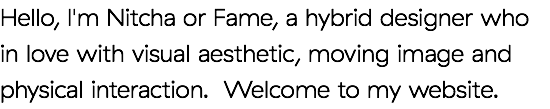
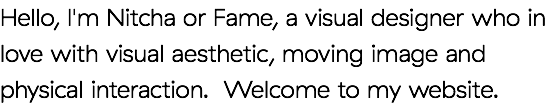
fix main page

Changed region(s): [[0.0, 0.4128, 0.9273, 0.633], [0.5564, 0.0826, 1.0, 0.3028]]

diff --git a/index.html b/index.html
@@ -161,7 +161,7 @@ transition:300ms;
      <a class="nonblock nontext clip_frame grpelem" id="u7873" href="https://github.com/Nitchafame" data-muse-uid="U7873" data-muse-type="img_frame"><!-- image --><img class="block" id="u7873_img" src="images/new7git.png" alt="" width="17" height="17" data-muse-src="images/new7git.png"/></a>
      <!-- /m_editable -->
     </div>
-    <img class="colelem" id="u15353-4" alt="Hello, I'm Nitcha or Fame, a hybrid designer who in love with visual aesthetic, moving image and physical interaction. Welcome to my website. " width="550" height="108" src="images/u15353-4.png"/><!-- rasterized frame -->
+    <img class="colelem" id="u15353-4" alt="Hello, I'm Nitcha or Fame, a visual designer who in love with visual aesthetic, moving image and physical interaction. Welcome to my website. " width="550" height="108" src="images/u15353-4.png"/><!-- rasterized frame -->
     <div class="clearfix colelem" id="u15348"><!-- group -->
      <!-- m_editable region-id="editable-static-tag-U15350-BP_infinity" template="index.html" data-type="html" data-ice-options="disableImageResize,link" -->
      <div class="clearfix grpelem" id="u15350-11" data-muse-uid="U15350" data-muse-type="txt_frame"><!-- content -->
@@ -187,7 +187,7 @@ transition:300ms;
      <div class="pointer_cursor museBGSize clearfix grpelem" id="u8424" data-muse-uid="U8424"><!-- group -->
       <a class="block" href="betweenspaces.html" data-href="page:U19544"></a>
       <!-- m_editable region-id="editable-static-tag-U12744-BP_infinity" template="index.html" data-type="html" data-ice-options="disableImageResize,link,clickable" data-ice-editable="link" -->
-      <a class="nonblock nontext rgba-background clearfix grpelem" id="u12744-6" href="betweenspaces.html" data-href="page:U19544" data-muse-uid="U12744" data-muse-type="txt_frame"><!-- content --><p id="u12744-2">Melody</p><p id="u12744-4">3D Interactive</p></a>
+      <a class="nonblock nontext rgba-background clearfix grpelem" id="u12744-6" href="melody.html" data-href="page:U8168" data-muse-uid="U12744" data-muse-type="txt_frame"><!-- content --><p id="u12744-2">Melody</p><p id="u12744-4">3D Interactive</p></a>
       <!-- /m_editable -->
      </div>
      <!-- /m_editable -->
@@ -198,21 +198,21 @@ transition:300ms;
      <div class="pointer_cursor museBGSize clearfix grpelem" id="u8228" data-muse-uid="U8228"><!-- group -->
       <a class="block" href="betweenspaces.html" data-href="page:U19544"></a>
       <!-- m_editable region-id="editable-static-tag-U8227-BP_infinity" template="index.html" data-type="html" data-ice-options="disableImageResize,link,clickable" data-ice-editable="link" -->
-      <a class="nonblock nontext rgba-background clearfix grpelem" id="u8227-6" href="betweenspaces.html" data-href="page:U19544" data-muse-uid="U8227" data-muse-type="txt_frame"><!-- content --><p id="u8227-2">Disturbing Muses</p><p id="u8227-4">3D Interactive</p></a>
+      <a class="nonblock nontext rgba-background clearfix grpelem" id="u8227-6" href="disturbingmuses.html" data-href="page:U8252" data-muse-uid="U8227" data-muse-type="txt_frame"><!-- content --><p id="u8227-2">Disturbing Muses</p><p id="u8227-4">3D Interactive</p></a>
       <!-- /m_editable -->
      </div>
      <!-- /m_editable -->
      <!-- m_editable region-id="editable-static-tag-U11575-BP_infinity" template="index.html" data-type="html" data-ice-options="disableImageResize,link,clickable" data-ice-editable="link" -->
-     <a class="nonblock nontext rgba-background clearfix grpelem" id="u11575-6" href="betweenspaces.html" data-href="page:U19544" data-muse-uid="U11575" data-muse-type="txt_frame"><!-- content --><p id="u11575-2">Save Cursive</p><p id="u11575-4">Physical Computing, Arduino</p></a>
+     <a class="nonblock nontext rgba-background clearfix grpelem" id="u11575-6" href="save-cursive.html" data-href="page:U11357" data-muse-uid="U11575" data-muse-type="txt_frame"><!-- content --><p id="u11575-2">Save Cursive</p><p id="u11575-4">Physical Computing, Arduino</p></a>
      <!-- /m_editable -->
      <!-- m_editable region-id="editable-static-tag-U7971-BP_infinity" template="index.html" data-type="html" data-ice-options="disableImageResize,link,clickable" data-ice-editable="link" -->
-     <a class="nonblock nontext rgba-background clearfix grpelem" id="u7971-20" href="betweenspaces.html" data-href="page:U19544" data-muse-uid="U7971" data-muse-type="txt_frame"><!-- content --><p id="u7971-2">Lucid</p><p id="u7971-16">In<span id="u7971-4">s</span>tal<span id="u7971-6">l</span>ation, <span id="u7971-8">C</span>el ani<span id="u7971-10">m</span>a<span id="u7971-12">t</span>i<span id="u7971-14">o</span>n</p><p id="u7971-17">&nbsp;</p><p id="u7971-18">&nbsp;</p></a>
+     <a class="nonblock nontext rgba-background clearfix grpelem" id="u7971-20" href="lucid.html" data-href="page:U7977" data-muse-uid="U7971" data-muse-type="txt_frame"><!-- content --><p id="u7971-2">Lucid</p><p id="u7971-16">In<span id="u7971-4">s</span>tal<span id="u7971-6">l</span>ation, <span id="u7971-8">C</span>el ani<span id="u7971-10">m</span>a<span id="u7971-12">t</span>i<span id="u7971-14">o</span>n</p><p id="u7971-17">&nbsp;</p><p id="u7971-18">&nbsp;</p></a>
      <!-- /m_editable -->
      <!-- m_editable region-id="editable-static-tag-U7569" template="index.html" data-type="html" data-ice-options="clickable" data-ice-editable="link" -->
      <div class="pointer_cursor museBGSize clearfix grpelem" id="u7569" data-muse-uid="U7569"><!-- group -->
       <a class="block" href="betweenspaces.html" data-href="page:U19544"></a>
       <!-- m_editable region-id="editable-static-tag-U7578-BP_infinity" template="index.html" data-type="html" data-ice-options="disableImageResize,link,clickable" data-ice-editable="link" -->
-      <a class="nonblock nontext rgba-background clearfix grpelem" id="u7578-9" href="betweenspaces.html" data-href="page:U19544" data-muse-uid="U7578" data-muse-type="txt_frame"><!-- content --><p id="u7578-2">Revoke : Singular</p><p id="u7578-4">Animation, Music Video</p><p id="u7578-5">&nbsp;</p><p id="u7578-6">&nbsp;</p><p id="u7578-7">&nbsp;</p></a>
+      <a class="nonblock nontext rgba-background clearfix grpelem" id="u7578-9" href="revoke.html" data-href="page:U558" data-muse-uid="U7578" data-muse-type="txt_frame"><!-- content --><p id="u7578-2">Revoke : Singular</p><p id="u7578-4">Animation, Music Video</p><p id="u7578-5">&nbsp;</p><p id="u7578-6">&nbsp;</p><p id="u7578-7">&nbsp;</p></a>
       <!-- /m_editable -->
      </div>
      <!-- /m_editable -->
@@ -220,12 +220,12 @@ transition:300ms;
      <div class="pointer_cursor museBGSize clearfix grpelem" id="u11420" data-muse-uid="U11420"><!-- group -->
       <a class="block" href="betweenspaces.html" data-href="page:U19544"></a>
       <!-- m_editable region-id="editable-static-tag-U11419-BP_infinity" template="index.html" data-type="html" data-ice-options="disableImageResize,link,clickable" data-ice-editable="link" -->
-      <a class="nonblock nontext rgba-background clearfix grpelem" id="u11419-11" href="betweenspaces.html" data-href="page:U19544" data-muse-uid="U11419" data-muse-type="txt_frame"><!-- content --><p id="u11419-2">Balancing Sound</p><p id="u11419-8">Sound In<span id="u11419-4">s</span>tal<span id="u11419-6">l</span>ation</p><p id="u11419-9">&nbsp;</p></a>
+      <a class="nonblock nontext rgba-background clearfix grpelem" id="u11419-11" href="balancingsound.html" data-href="page:U11345" data-muse-uid="U11419" data-muse-type="txt_frame"><!-- content --><p id="u11419-2">Balancing Sound</p><p id="u11419-8">Sound In<span id="u11419-4">s</span>tal<span id="u11419-6">l</span>ation</p><p id="u11419-9">&nbsp;</p></a>
       <!-- /m_editable -->
      </div>
      <!-- /m_editable -->
      <!-- m_editable region-id="editable-static-tag-U13162-BP_infinity" template="index.html" data-type="image" data-ice-options="clickable" data-ice-editable="link" -->
-     <a class="nonblock nontext clip_frame grpelem" id="u13162" href="betweenspaces.html" data-href="page:U19544" data-muse-uid="U13162" data-muse-type="img_frame"><!-- image --><img class="block" id="u13162_img" src="images/reel_button_web_new2015.png" alt="" width="960" height="288" data-muse-src="images/reel_button_web_new2015.png"/></a>
+     <a class="nonblock nontext clip_frame grpelem" id="u13162" href="reel.html#reel2015" data-href="anchor:U2766:U20695" data-muse-uid="U13162" data-muse-type="img_frame"><!-- image --><img class="block" id="u13162_img" src="images/reel_button_web_new2015.png" alt="" width="960" height="288" data-muse-src="images/reel_button_web_new2015.png"/></a>
      <!-- /m_editable -->
      <!-- m_editable region-id="editable-static-tag-U13235" template="index.html" data-type="html" data-ice-options="clickable" data-ice-editable="link" -->
      <a class="nonblock nontext museBGSize grpelem" id="u13235" href="betweenspaces.html" data-href="page:U19544" data-muse-uid="U13235"><!-- simple frame --></a>
@@ -234,22 +234,22 @@ transition:300ms;
      <a class="nonblock nontext museBGSize grpelem" id="u14375" href="betweenspaces.html" data-href="page:U19544" data-muse-uid="U14375"><!-- simple frame --></a>
      <!-- /m_editable -->
      <!-- m_editable region-id="editable-static-tag-U13236-BP_infinity" template="index.html" data-type="html" data-ice-options="disableImageResize,link,clickable" data-ice-editable="link" -->
-     <a class="nonblock nontext rgba-background clearfix grpelem" id="u13236-7" href="betweenspaces.html" data-href="page:U19544" data-muse-uid="U13236" data-muse-type="txt_frame"><!-- content --><p id="u13236-2">Lick it!</p><p id="u13236-4">Experimental Arcade Game, Physical Game</p><p id="u13236-5">&nbsp;</p></a>
+     <a class="nonblock nontext rgba-background clearfix grpelem" id="u13236-7" href="lick-it.html" data-href="page:U13269" data-muse-uid="U13236" data-muse-type="txt_frame"><!-- content --><p id="u13236-2">Lick it!</p><p id="u13236-4">Experimental Arcade Game, Physical Game</p><p id="u13236-5">&nbsp;</p></a>
      <!-- /m_editable -->
      <!-- m_editable region-id="editable-static-tag-U14372-BP_infinity" template="index.html" data-type="html" data-ice-options="disableImageResize,link,clickable" data-ice-editable="link" -->
-     <a class="nonblock nontext rgba-background clearfix grpelem" id="u14372-9" href="betweenspaces.html" data-href="page:U19544" data-muse-uid="U14372" data-muse-type="txt_frame"><!-- content --><p id="u14372">&nbsp;</p><p id="u14372-2">&nbsp;</p><p id="u14372-4">Jellyfish Game</p><p id="u14372-6">Mini Game with Physical Controller, P5</p><p id="u14372-7">&nbsp;</p></a>
+     <a class="nonblock nontext rgba-background clearfix grpelem" id="u14372-9" href="jellyfish-game.html" data-href="page:U14690" data-muse-uid="U14372" data-muse-type="txt_frame"><!-- content --><p id="u14372">&nbsp;</p><p id="u14372-2">&nbsp;</p><p id="u14372-4">Jellyfish Game</p><p id="u14372-6">Mini Game with Physical Controller, P5</p><p id="u14372-7">&nbsp;</p></a>
      <!-- /m_editable -->
      <!-- m_editable region-id="editable-static-tag-U14374-BP_infinity" template="index.html" data-type="html" data-ice-options="disableImageResize,link,clickable" data-ice-editable="link" -->
-     <a class="nonblock nontext rgba-background clearfix grpelem" id="u14374-7" href="betweenspaces.html" data-href="page:U19544" data-muse-uid="U14374" data-muse-type="txt_frame"><!-- content --><p id="u14374-2">Dilation</p><p id="u14374-4">Paper Sculpture, Projection Mapping, GLSL shaders</p><p id="u14374-5">&nbsp;</p></a>
+     <a class="nonblock nontext rgba-background clearfix grpelem" id="u14374-7" href="dilation.html" data-href="page:U13769" data-muse-uid="U14374" data-muse-type="txt_frame"><!-- content --><p id="u14374-2">Dilation</p><p id="u14374-4">Paper Sculpture, Projection Mapping, GLSL shaders</p><p id="u14374-5">&nbsp;</p></a>
      <!-- /m_editable -->
      <!-- m_editable region-id="editable-static-tag-U14388-BP_infinity" template="index.html" data-type="image" data-ice-options="clickable" data-ice-editable="link" -->
      <a class="nonblock nontext clip_frame clearfix grpelem" id="u14388" href="betweenspaces.html" data-href="page:U19544" data-muse-uid="U14388" data-muse-type="img_frame"><!-- image --><img class="position_content" id="u14388_img" src="images/set1.gif" alt="" width="725" height="408" data-muse-src="images/set1.gif"/></a>
      <!-- /m_editable -->
      <!-- m_editable region-id="editable-static-tag-U13629-BP_infinity" template="index.html" data-type="html" data-ice-options="disableImageResize,link,clickable" data-ice-editable="link" -->
-     <a class="nonblock nontext rgba-background clearfix grpelem" id="u13629-7" href="betweenspaces.html" data-href="page:U19544" data-muse-uid="U13629" data-muse-type="txt_frame"><!-- content --><p id="u13629-2">Repetition in GLSL</p><p id="u13629-4">Visual Design, GLSL shaders</p><p id="u13629-5">&nbsp;</p></a>
+     <a class="nonblock nontext rgba-background clearfix grpelem" id="u13629-7" href="repitation-in-glsl.html" data-href="page:U14563" data-muse-uid="U13629" data-muse-type="txt_frame"><!-- content --><p id="u13629-2">Repetition in GLSL</p><p id="u13629-4">Visual Design, GLSL shaders</p><p id="u13629-5">&nbsp;</p></a>
      <!-- /m_editable -->
      <!-- m_editable region-id="editable-static-tag-U11677-BP_infinity" template="index.html" data-type="html" data-ice-options="disableImageResize,link,clickable" data-ice-editable="link" -->
-     <a class="nonblock nontext rgba-background clearfix grpelem" id="u11677-15" href="betweenspaces.html" data-href="page:U19544" data-muse-uid="U11677" data-muse-type="txt_frame"><!-- content --><p id="u11677">&nbsp;</p><p id="u11677-2">&nbsp;</p><p id="u11677-3">&nbsp;</p><p id="u11677-4">&nbsp;</p><p id="u11677-6">Atta-matic:</p><p id="u11677-8">mind the body</p><p id="u11677-10">Wearable Technology, Physical Computing,</p><p id="u11677-12">Research</p><p id="u11677-13">&nbsp;</p></a>
+     <a class="nonblock nontext rgba-background clearfix grpelem" id="u11677-15" href="attamatic.html" data-href="page:U15059" data-muse-uid="U11677" data-muse-type="txt_frame"><!-- content --><p id="u11677">&nbsp;</p><p id="u11677-2">&nbsp;</p><p id="u11677-3">&nbsp;</p><p id="u11677-4">&nbsp;</p><p id="u11677-6">Atta-matic:</p><p id="u11677-8">mind the body</p><p id="u11677-10">Wearable Technology, Physical Computing,</p><p id="u11677-12">Research</p><p id="u11677-13">&nbsp;</p></a>
      <!-- /m_editable -->
      <!-- m_editable region-id="editable-static-tag-U22721-BP_infinity" template="index.html" data-type="html" data-ice-options="disableImageResize,link,clickable" data-ice-editable="link" -->
      <a class="nonblock nontext rgba-background clearfix grpelem" id="u22721-6" href="betweenspaces.html" data-href="page:U19544" data-muse-uid="U22721" data-muse-type="txt_frame"><!-- content --><p id="u22721-2">Between Spaces</p><p id="u22721-4">Art direction, Exhibition Identity, Graphic Design</p></a>
@@ -273,19 +273,19 @@ transition:300ms;
      <a class="nonblock nontext rgba-background clearfix grpelem" id="u7602-3" href="betweenspaces.html" data-href="page:U19544" data-muse-uid="U7602" data-muse-type="txt_frame"><!-- content --><p>&nbsp;</p></a>
      <!-- /m_editable -->
      <!-- m_editable region-id="editable-static-tag-U7601" template="index.html" data-type="html" data-ice-options="clickable" data-ice-editable="link" -->
-     <a class="nonblock nontext museBGSize grpelem" id="u7601" href="betweenspaces.html" data-href="page:U19544" data-muse-uid="U7601"><!-- simple frame --></a>
+     <a class="nonblock nontext museBGSize grpelem" id="u7601" href="reel.html#reel2013" data-href="anchor:U2766:U13168" data-muse-uid="U7601"><!-- simple frame --></a>
      <!-- /m_editable -->
      <!-- m_editable region-id="editable-static-tag-U7552-BP_infinity" template="index.html" data-type="image" data-ice-options="clickable" data-ice-editable="link" -->
      <a class="nonblock nontext clip_frame grpelem" id="u7552" href="betweenspaces.html" data-href="page:U19544" data-muse-uid="U7552" data-muse-type="img_frame"><!-- image --><img class="block" id="u7552_img" src="images/thumb_medleyscrubb.gif" alt="" width="320" height="180" data-muse-src="images/thumb_medleyscrubb.gif"/></a>
      <!-- /m_editable -->
      <!-- m_editable region-id="editable-static-tag-U7554-BP_infinity" template="index.html" data-type="html" data-ice-options="disableImageResize,link,clickable" data-ice-editable="link" -->
-     <a class="nonblock nontext rgba-background clearfix grpelem" id="u7554-6" href="betweenspaces.html" data-href="page:U19544" data-muse-uid="U7554" data-muse-type="txt_frame"><!-- content --><p id="u7554-2">Medley : Scrubb</p><p id="u7554-4">Animation, Visual graphic</p></a>
+     <a class="nonblock nontext rgba-background clearfix grpelem" id="u7554-6" href="scrubbmedley.html" data-href="page:U1820" data-muse-uid="U7554" data-muse-type="txt_frame"><!-- content --><p id="u7554-2">Medley : Scrubb</p><p id="u7554-4">Animation, Visual graphic</p></a>
      <!-- /m_editable -->
      <!-- m_editable region-id="editable-static-tag-U7584" template="index.html" data-type="html" data-ice-options="clickable" data-ice-editable="link" -->
      <div class="pointer_cursor museBGSize clearfix grpelem" id="u7584" data-muse-uid="U7584"><!-- group -->
       <a class="block" href="betweenspaces.html" data-href="page:U19544"></a>
       <!-- m_editable region-id="editable-static-tag-U8195-BP_infinity" template="index.html" data-type="html" data-ice-options="disableImageResize,link,clickable" data-ice-editable="link" -->
-      <a class="nonblock nontext rgba-background clearfix grpelem" id="u8195-7" href="betweenspaces.html" data-href="page:U19544" data-muse-uid="U8195" data-muse-type="txt_frame"><!-- content --><p id="u8195-2">Sudkedtedsakran</p><p id="u8195-4">Graphic design, Logo</p><p id="u8195-5">&nbsp;</p></a>
+      <a class="nonblock nontext rgba-background clearfix grpelem" id="u8195-7" href="sudked.html" data-href="page:U4140" data-muse-uid="U8195" data-muse-type="txt_frame"><!-- content --><p id="u8195-2">Sudkedtedsakran</p><p id="u8195-4">Graphic design, Logo</p><p id="u8195-5">&nbsp;</p></a>
       <!-- /m_editable -->
      </div>
      <!-- /m_editable -->
@@ -293,7 +293,7 @@ transition:300ms;
      <div class="pointer_cursor museBGSize clearfix grpelem" id="u7559" data-muse-uid="U7559"><!-- group -->
       <a class="block" href="betweenspaces.html" data-href="page:U19544"></a>
       <!-- m_editable region-id="editable-static-tag-U8193-BP_infinity" template="index.html" data-type="html" data-ice-options="disableImageResize,link,clickable" data-ice-editable="link" -->
-      <a class="nonblock nontext rgba-background clearfix grpelem" id="u8193-8" href="betweenspaces.html" data-href="page:U19544" data-muse-uid="U8193" data-muse-type="txt_frame"><!-- content --><p id="u8193-2">Uprising : Musketeers</p><p id="u8193-4">Graphic design, Art direction</p><p id="u8193-5">&nbsp;</p><p id="u8193-6">&nbsp;</p></a>
+      <a class="nonblock nontext rgba-background clearfix grpelem" id="u8193-8" href="musketeers.html" data-href="page:U1578" data-muse-uid="U8193" data-muse-type="txt_frame"><!-- content --><p id="u8193-2">Uprising : Musketeers</p><p id="u8193-4">Graphic design, Art direction</p><p id="u8193-5">&nbsp;</p><p id="u8193-6">&nbsp;</p></a>
       <!-- /m_editable -->
      </div>
      <!-- /m_editable -->
@@ -301,7 +301,7 @@ transition:300ms;
      <div class="pointer_cursor museBGSize clearfix grpelem" id="u7572" data-muse-uid="U7572"><!-- group -->
       <a class="block" href="betweenspaces.html" data-href="page:U19544"></a>
       <!-- m_editable region-id="editable-static-tag-U7580-BP_infinity" template="index.html" data-type="html" data-ice-options="disableImageResize,link,clickable" data-ice-editable="link" -->
-      <a class="nonblock nontext rgba-background clearfix grpelem" id="u7580-6" href="betweenspaces.html" data-href="page:U19544" data-muse-uid="U7580" data-muse-type="txt_frame"><!-- content --><p id="u7580-2">Rainbow : Lonely Lego</p><p id="u7580-4">Animation</p></a>
+      <a class="nonblock nontext rgba-background clearfix grpelem" id="u7580-6" href="lonelylego.html" data-href="page:U2196" data-muse-uid="U7580" data-muse-type="txt_frame"><!-- content --><p id="u7580-2">Rainbow : Lonely Lego</p><p id="u7580-4">Animation</p></a>
       <!-- /m_editable -->
      </div>
      <!-- /m_editable -->
@@ -321,25 +321,25 @@ transition:300ms;
      <a class="nonblock nontext museBGSize grpelem" id="u7568" href="betweenspaces.html" data-href="page:U19544" data-muse-uid="U7568"><!-- simple frame --></a>
      <!-- /m_editable -->
      <!-- m_editable region-id="editable-static-tag-U7579-BP_infinity" template="index.html" data-type="html" data-ice-options="disableImageResize,link,clickable" data-ice-editable="link" -->
-     <a class="nonblock nontext rgba-background clearfix grpelem" id="u7579-6" href="betweenspaces.html" data-href="page:U19544" data-muse-uid="U7579" data-muse-type="txt_frame"><!-- content --><p id="u7579-2">Pijika : Just A Little Bit</p><p id="u7579-4">Cel animation, Music Video</p></a>
+     <a class="nonblock nontext rgba-background clearfix grpelem" id="u7579-6" href="pijika.html" data-href="page:U3837" data-muse-uid="U7579" data-muse-type="txt_frame"><!-- content --><p id="u7579-2">Pijika : Just A Little Bit</p><p id="u7579-4">Cel animation, Music Video</p></a>
      <!-- /m_editable -->
      <!-- m_editable region-id="editable-static-tag-U8179-BP_infinity" template="index.html" data-type="html" data-ice-options="disableImageResize,link,clickable" data-ice-editable="link" -->
-     <a class="nonblock nontext rgba-background clearfix grpelem" id="u8179-6" href="betweenspaces.html" data-href="page:U19544" data-muse-uid="U8179" data-muse-type="txt_frame"><!-- content --><p id="u8179-2">25Hours : Colour in White</p><p id="u8179-4">Graphic Design</p></a>
+     <a class="nonblock nontext rgba-background clearfix grpelem" id="u8179-6" href="25hours.html" data-href="page:U1060" data-muse-uid="U8179" data-muse-type="txt_frame"><!-- content --><p id="u8179-2">25Hours : Colour in White</p><p id="u8179-4">Graphic Design</p></a>
      <!-- /m_editable -->
      <!-- m_editable region-id="editable-static-tag-U8183-BP_infinity" template="index.html" data-type="html" data-ice-options="disableImageResize,link,clickable" data-ice-editable="link" -->
-     <a class="nonblock nontext rgba-background clearfix grpelem" id="u8183-6" href="betweenspaces.html" data-href="page:U19544" data-muse-uid="U8183" data-muse-type="txt_frame"><!-- content --><p id="u8183-2">Rest(less)</p><p id="u8183-4">Animation, Short film</p></a>
+     <a class="nonblock nontext rgba-background clearfix grpelem" id="u8183-6" href="restless.html" data-href="page:U2441" data-muse-uid="U8183" data-muse-type="txt_frame"><!-- content --><p id="u8183-2">Rest(less)</p><p id="u8183-4">Animation, Short film</p></a>
      <!-- /m_editable -->
      <!-- m_editable region-id="editable-static-tag-U8191-BP_infinity" template="index.html" data-type="html" data-ice-options="disableImageResize,link,clickable" data-ice-editable="link" -->
-     <a class="nonblock nontext rgba-background clearfix grpelem" id="u8191-11" href="betweenspaces.html" data-href="page:U19544" data-muse-uid="U8191" data-muse-type="txt_frame"><!-- content --><p id="u8191">&nbsp;</p><p id="u8191-2">&nbsp;</p><p id="u8191-3">&nbsp;</p><p id="u8191-5">1081009</p><p id="u8191-7">Lettering Design,</p><p id="u8191-9">Graphic Design</p></a>
+     <a class="nonblock nontext rgba-background clearfix grpelem" id="u8191-11" href="1081009.html" data-href="page:U3530" data-muse-uid="U8191" data-muse-type="txt_frame"><!-- content --><p id="u8191">&nbsp;</p><p id="u8191-2">&nbsp;</p><p id="u8191-3">&nbsp;</p><p id="u8191-5">1081009</p><p id="u8191-7">Lettering Design,</p><p id="u8191-9">Graphic Design</p></a>
      <!-- /m_editable -->
      <!-- m_editable region-id="editable-static-tag-U7582-BP_infinity" template="index.html" data-type="html" data-ice-options="disableImageResize,link,clickable" data-ice-editable="link" -->
-     <a class="nonblock nontext rgba-background clearfix grpelem" id="u7582-7" href="betweenspaces.html" data-href="page:U19544" data-muse-uid="U7582" data-muse-type="txt_frame"><!-- content --><p id="u7582-2">Electric Neon Lamp</p><p id="u7582-4">Graphic Design, Logo</p><p id="u7582-5">&nbsp;</p></a>
+     <a class="nonblock nontext rgba-background clearfix grpelem" id="u7582-7" href="electricneonlamp.html" data-href="page:U4342" data-muse-uid="U7582" data-muse-type="txt_frame"><!-- content --><p id="u7582-2">Electric Neon Lamp</p><p id="u7582-4">Graphic Design, Logo</p><p id="u7582-5">&nbsp;</p></a>
      <!-- /m_editable -->
      <!-- m_editable region-id="editable-static-tag-U7571" template="index.html" data-type="html" data-ice-options="clickable" data-ice-editable="link" -->
      <div class="pointer_cursor museBGSize clearfix grpelem" id="u7571" data-muse-uid="U7571"><!-- group -->
       <a class="block" href="betweenspaces.html" data-href="page:U19544"></a>
       <!-- m_editable region-id="editable-static-tag-U12749-BP_infinity" template="index.html" data-type="html" data-ice-options="disableImageResize,link,clickable" data-ice-editable="link" -->
-      <a class="nonblock nontext rgba-background clearfix grpelem" id="u12749-9" href="betweenspaces.html" data-href="page:U19544" data-muse-uid="U12749" data-muse-type="txt_frame"><!-- content --><p id="u12749-2">Kid : Scrubb</p><p id="u12749-4">Cel animation, Music Video</p><p id="u12749-5">&nbsp;</p><p id="u12749-6">&nbsp;</p><p id="u12749-7">&nbsp;</p></a>
+      <a class="nonblock nontext rgba-background clearfix grpelem" id="u12749-9" href="scrubbkid.html" data-href="page:U2057" data-muse-uid="U12749" data-muse-type="txt_frame"><!-- content --><p id="u12749-2">Kid : Scrubb</p><p id="u12749-4">Cel animation, Music Video</p><p id="u12749-5">&nbsp;</p><p id="u12749-6">&nbsp;</p><p id="u12749-7">&nbsp;</p></a>
       <!-- /m_editable -->
      </div>
      <!-- /m_editable -->
@@ -351,14 +351,14 @@ transition:300ms;
        <a class="nonblock nontext museBGSize grpelem" id="u7565" href="betweenspaces.html" data-href="page:U19544" data-muse-uid="U7565"><!-- simple frame --></a>
        <!-- /m_editable -->
        <!-- m_editable region-id="editable-static-tag-U8187-BP_infinity" template="index.html" data-type="html" data-ice-options="disableImageResize,link,clickable" data-ice-editable="link" -->
-       <a class="nonblock nontext rgba-background clearfix grpelem" id="u8187-7" href="betweenspaces.html" data-href="page:U19544" data-muse-uid="U8187" data-muse-type="txt_frame"><!-- content --><p id="u8187-2">Little red riding hood CE Model</p><p id="u8187-4">Graphic Design, Character Design</p><p id="u8187-5">&nbsp;</p></a>
+       <a class="nonblock nontext rgba-background clearfix grpelem" id="u8187-7" href="redriding.html" data-href="page:U4039" data-muse-uid="U8187" data-muse-type="txt_frame"><!-- content --><p id="u8187-2">Little red riding hood CE Model</p><p id="u8187-4">Graphic Design, Character Design</p><p id="u8187-5">&nbsp;</p></a>
        <!-- /m_editable -->
       </div>
       <!-- m_editable region-id="editable-static-tag-U7570" template="index.html" data-type="html" data-ice-options="clickable" data-ice-editable="link" -->
       <div class="pointer_cursor museBGSize clearfix colelem" id="u7570" data-muse-uid="U7570"><!-- group -->
        <a class="block" href="betweenspaces.html" data-href="page:U19544"></a>
        <!-- m_editable region-id="editable-static-tag-U7581-BP_infinity" template="index.html" data-type="html" data-ice-options="disableImageResize,link,clickable" data-ice-editable="link" -->
-       <a class="nonblock nontext rgba-background clearfix grpelem" id="u7581-7" href="betweenspaces.html" data-href="page:U19544" data-muse-uid="U7581" data-muse-type="txt_frame"><!-- content --><p id="u7581-2">First Mile : 60 Miles</p><p id="u7581-4">Graphic Design</p><p id="u7581-5">&nbsp;</p></a>
+       <a class="nonblock nontext rgba-background clearfix grpelem" id="u7581-7" href="60miles.html" data-href="page:U3736" data-muse-uid="U7581" data-muse-type="txt_frame"><!-- content --><p id="u7581-2">First Mile : 60 Miles</p><p id="u7581-4">Graphic Design</p><p id="u7581-5">&nbsp;</p></a>
        <!-- /m_editable -->
       </div>
       <!-- /m_editable -->
@@ -369,7 +369,7 @@ transition:300ms;
        <a class="nonblock nontext museBGSize grpelem" id="u7564" href="betweenspaces.html" data-href="page:U19544" data-muse-uid="U7564"><!-- simple frame --></a>
        <!-- /m_editable -->
        <!-- m_editable region-id="editable-static-tag-U8189-BP_infinity" template="index.html" data-type="html" data-ice-options="disableImageResize,link,clickable" data-ice-editable="link" -->
-       <a class="nonblock nontext rgba-background clearfix grpelem" id="u8189-7" href="betweenspaces.html" data-href="page:U19544" data-muse-uid="U8189" data-muse-type="txt_frame"><!-- content --><p id="u8189-2">Stamp : Grien Day</p><p id="u8189-4">Illustration, Graphic Design</p><p id="u8189-5">&nbsp;</p></a>
+       <a class="nonblock nontext rgba-background clearfix grpelem" id="u8189-7" href="grienday.html" data-href="page:U4241" data-muse-uid="U8189" data-muse-type="txt_frame"><!-- content --><p id="u8189-2">Stamp : Grien Day</p><p id="u8189-4">Illustration, Graphic Design</p><p id="u8189-5">&nbsp;</p></a>
        <!-- /m_editable -->
       </div>
       <div class="clearfix colelem" id="pu7598"><!-- group -->
@@ -377,7 +377,7 @@ transition:300ms;
        <a class="nonblock nontext clip_frame grpelem" id="u7598" href="betweenspaces.html" data-href="page:U19544" data-muse-uid="U7598" data-muse-type="img_frame"><!-- image --><img class="block" id="u7598_img" src="images/selfportrait_2013.png" alt="" width="218" height="219" data-muse-src="images/selfportrait_2013.png"/></a>
        <!-- /m_editable -->
        <!-- m_editable region-id="editable-static-tag-U7600-BP_infinity" template="index.html" data-type="html" data-ice-options="disableImageResize,link,clickable" data-ice-editable="link" -->
-       <a class="nonblock nontext rgba-background clearfix grpelem" id="u7600-4" href="betweenspaces.html" data-href="page:U19544" data-muse-uid="U7600" data-muse-type="txt_frame"><!-- content --><p>About</p></a>
+       <a class="nonblock nontext rgba-background clearfix grpelem" id="u7600-4" href="about.html" data-href="page:U2777" data-muse-uid="U7600" data-muse-type="txt_frame"><!-- content --><p>About</p></a>
        <!-- /m_editable -->
       </div>
      </div>
@@ -385,11 +385,11 @@ transition:300ms;
      <a class="nonblock nontext museBGSize grpelem" id="u7562" href="betweenspaces.html" data-href="page:U19544" data-muse-uid="U7562"><!-- simple frame --></a>
      <!-- /m_editable -->
      <!-- m_editable region-id="editable-static-tag-U8190-BP_infinity" template="index.html" data-type="html" data-ice-options="disableImageResize,link,clickable" data-ice-editable="link" -->
-     <a class="nonblock nontext rgba-background clearfix grpelem" id="u8190-9" href="betweenspaces.html" data-href="page:U19544" data-muse-uid="U8190" data-muse-type="txt_frame"><!-- content --><p>&nbsp;</p><p>&nbsp;</p><p>&nbsp;</p><p>Tee Fox</p><p id="u8190-7"><span id="u8190-6">Illustration</span></p></a>
+     <a class="nonblock nontext rgba-background clearfix grpelem" id="u8190-9" href="teefox.html" data-href="page:U3938" data-muse-uid="U8190" data-muse-type="txt_frame"><!-- content --><p>&nbsp;</p><p>&nbsp;</p><p>&nbsp;</p><p>Tee Fox</p><p id="u8190-7"><span id="u8190-6">Illustration</span></p></a>
      <!-- /m_editable -->
     </div>
     <!-- m_editable region-id="editable-static-tag-U15515-BP_infinity" template="index.html" data-type="html" data-ice-options="disableImageResize,link,clickable" data-ice-editable="link" -->
-    <a class="nonblock nontext clearfix colelem" id="u15515-4" href="betweenspaces.html" data-href="page:U19544" data-muse-uid="U15515" data-muse-type="txt_frame"><!-- content --><p>© 2009 ~ 2016 Nitcha Tothong – All rights reserved.</p></a>
+    <a class="nonblock nontext anim_swing clearfix colelem" id="u15515-4" href="index.html#project_home" data-href="anchor:U63:U15545" data-muse-uid="U15515" data-muse-type="txt_frame"><!-- content --><p>© 2009 ~ 2016 Nitcha Tothong – All rights reserved.</p></a>
     <!-- /m_editable -->
     <div class="clearfix colelem" id="pu19496"><!-- group -->
      <div class="clearfix grpelem" id="u19496"><!-- group -->
@@ -402,7 +402,7 @@ transition:300ms;
       <!-- /m_editable -->
      </div>
      <!-- m_editable region-id="editable-static-tag-U19516" template="index.html" data-type="html" data-ice-options="clickable" data-ice-editable="link" -->
-     <a class="nonblock nontext grpelem" id="u19516" href="betweenspaces.html" data-href="page:U19544" data-muse-uid="U19516"><!-- simple frame --></a>
+     <a class="nonblock nontext anim_swing grpelem" id="u19516" href="index.html#project_home" data-href="anchor:U63:U15545" data-muse-uid="U19516"><!-- simple frame --></a>
      <!-- /m_editable -->
     </div>
    </div>
